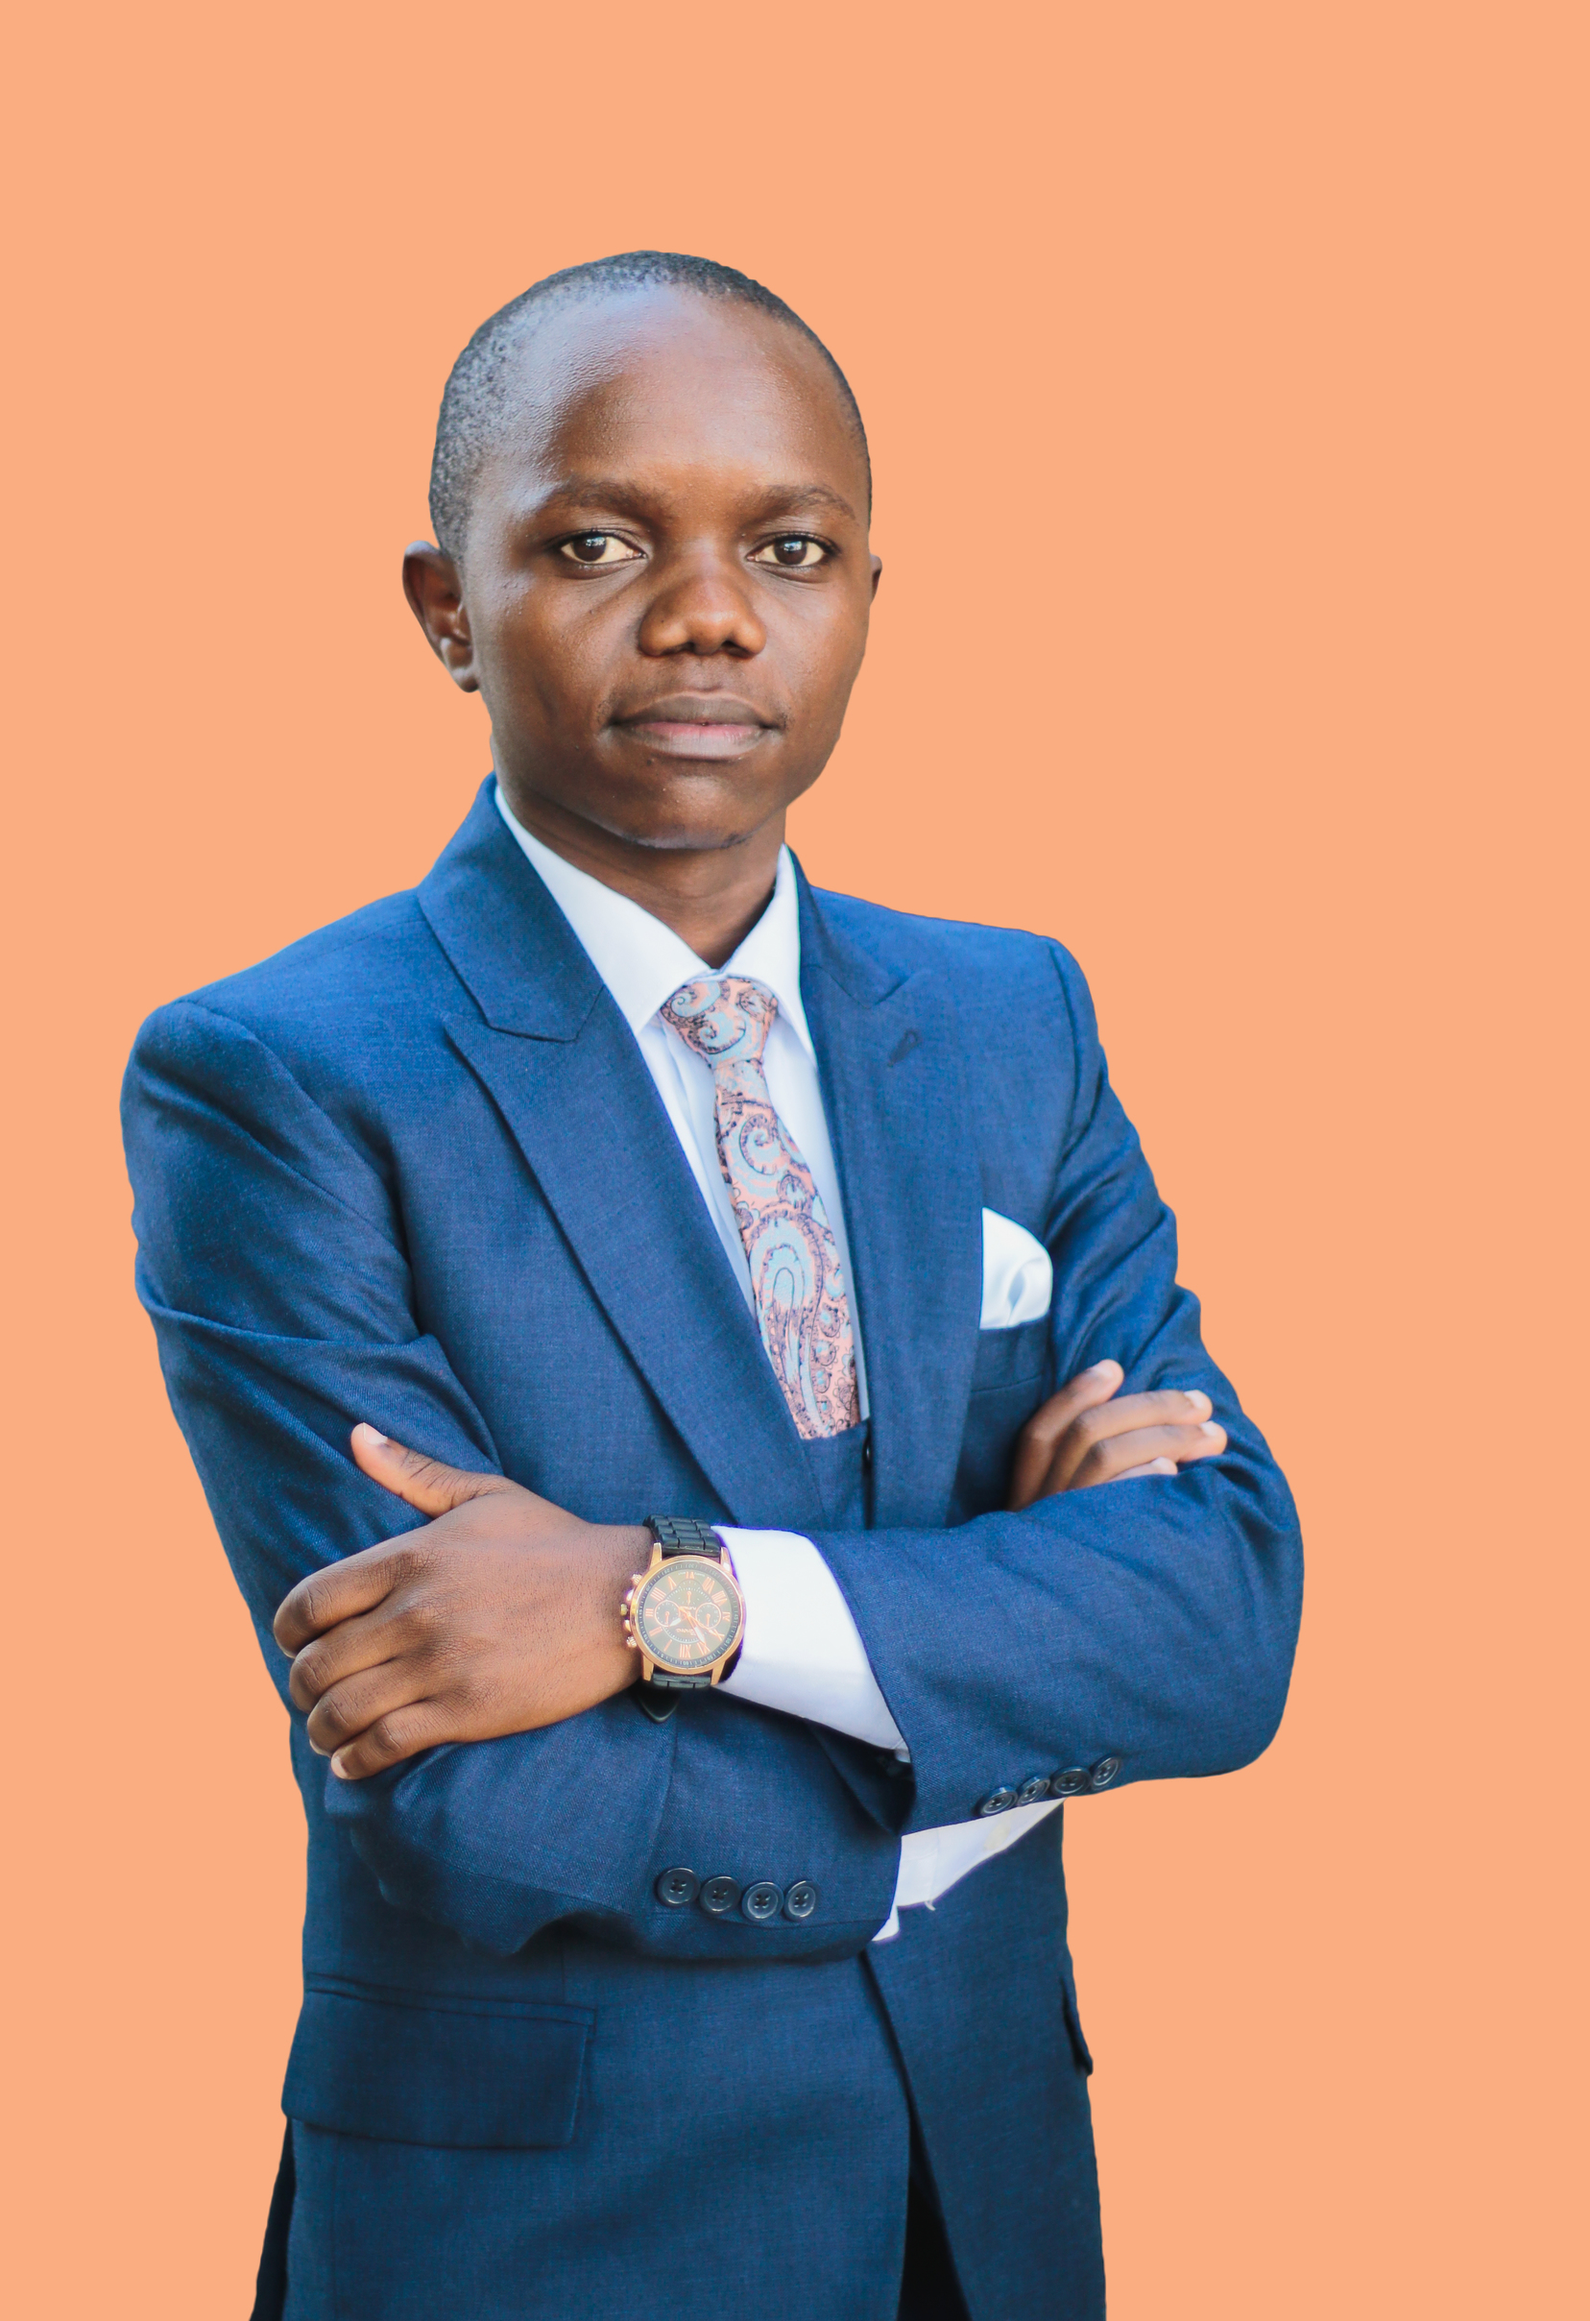
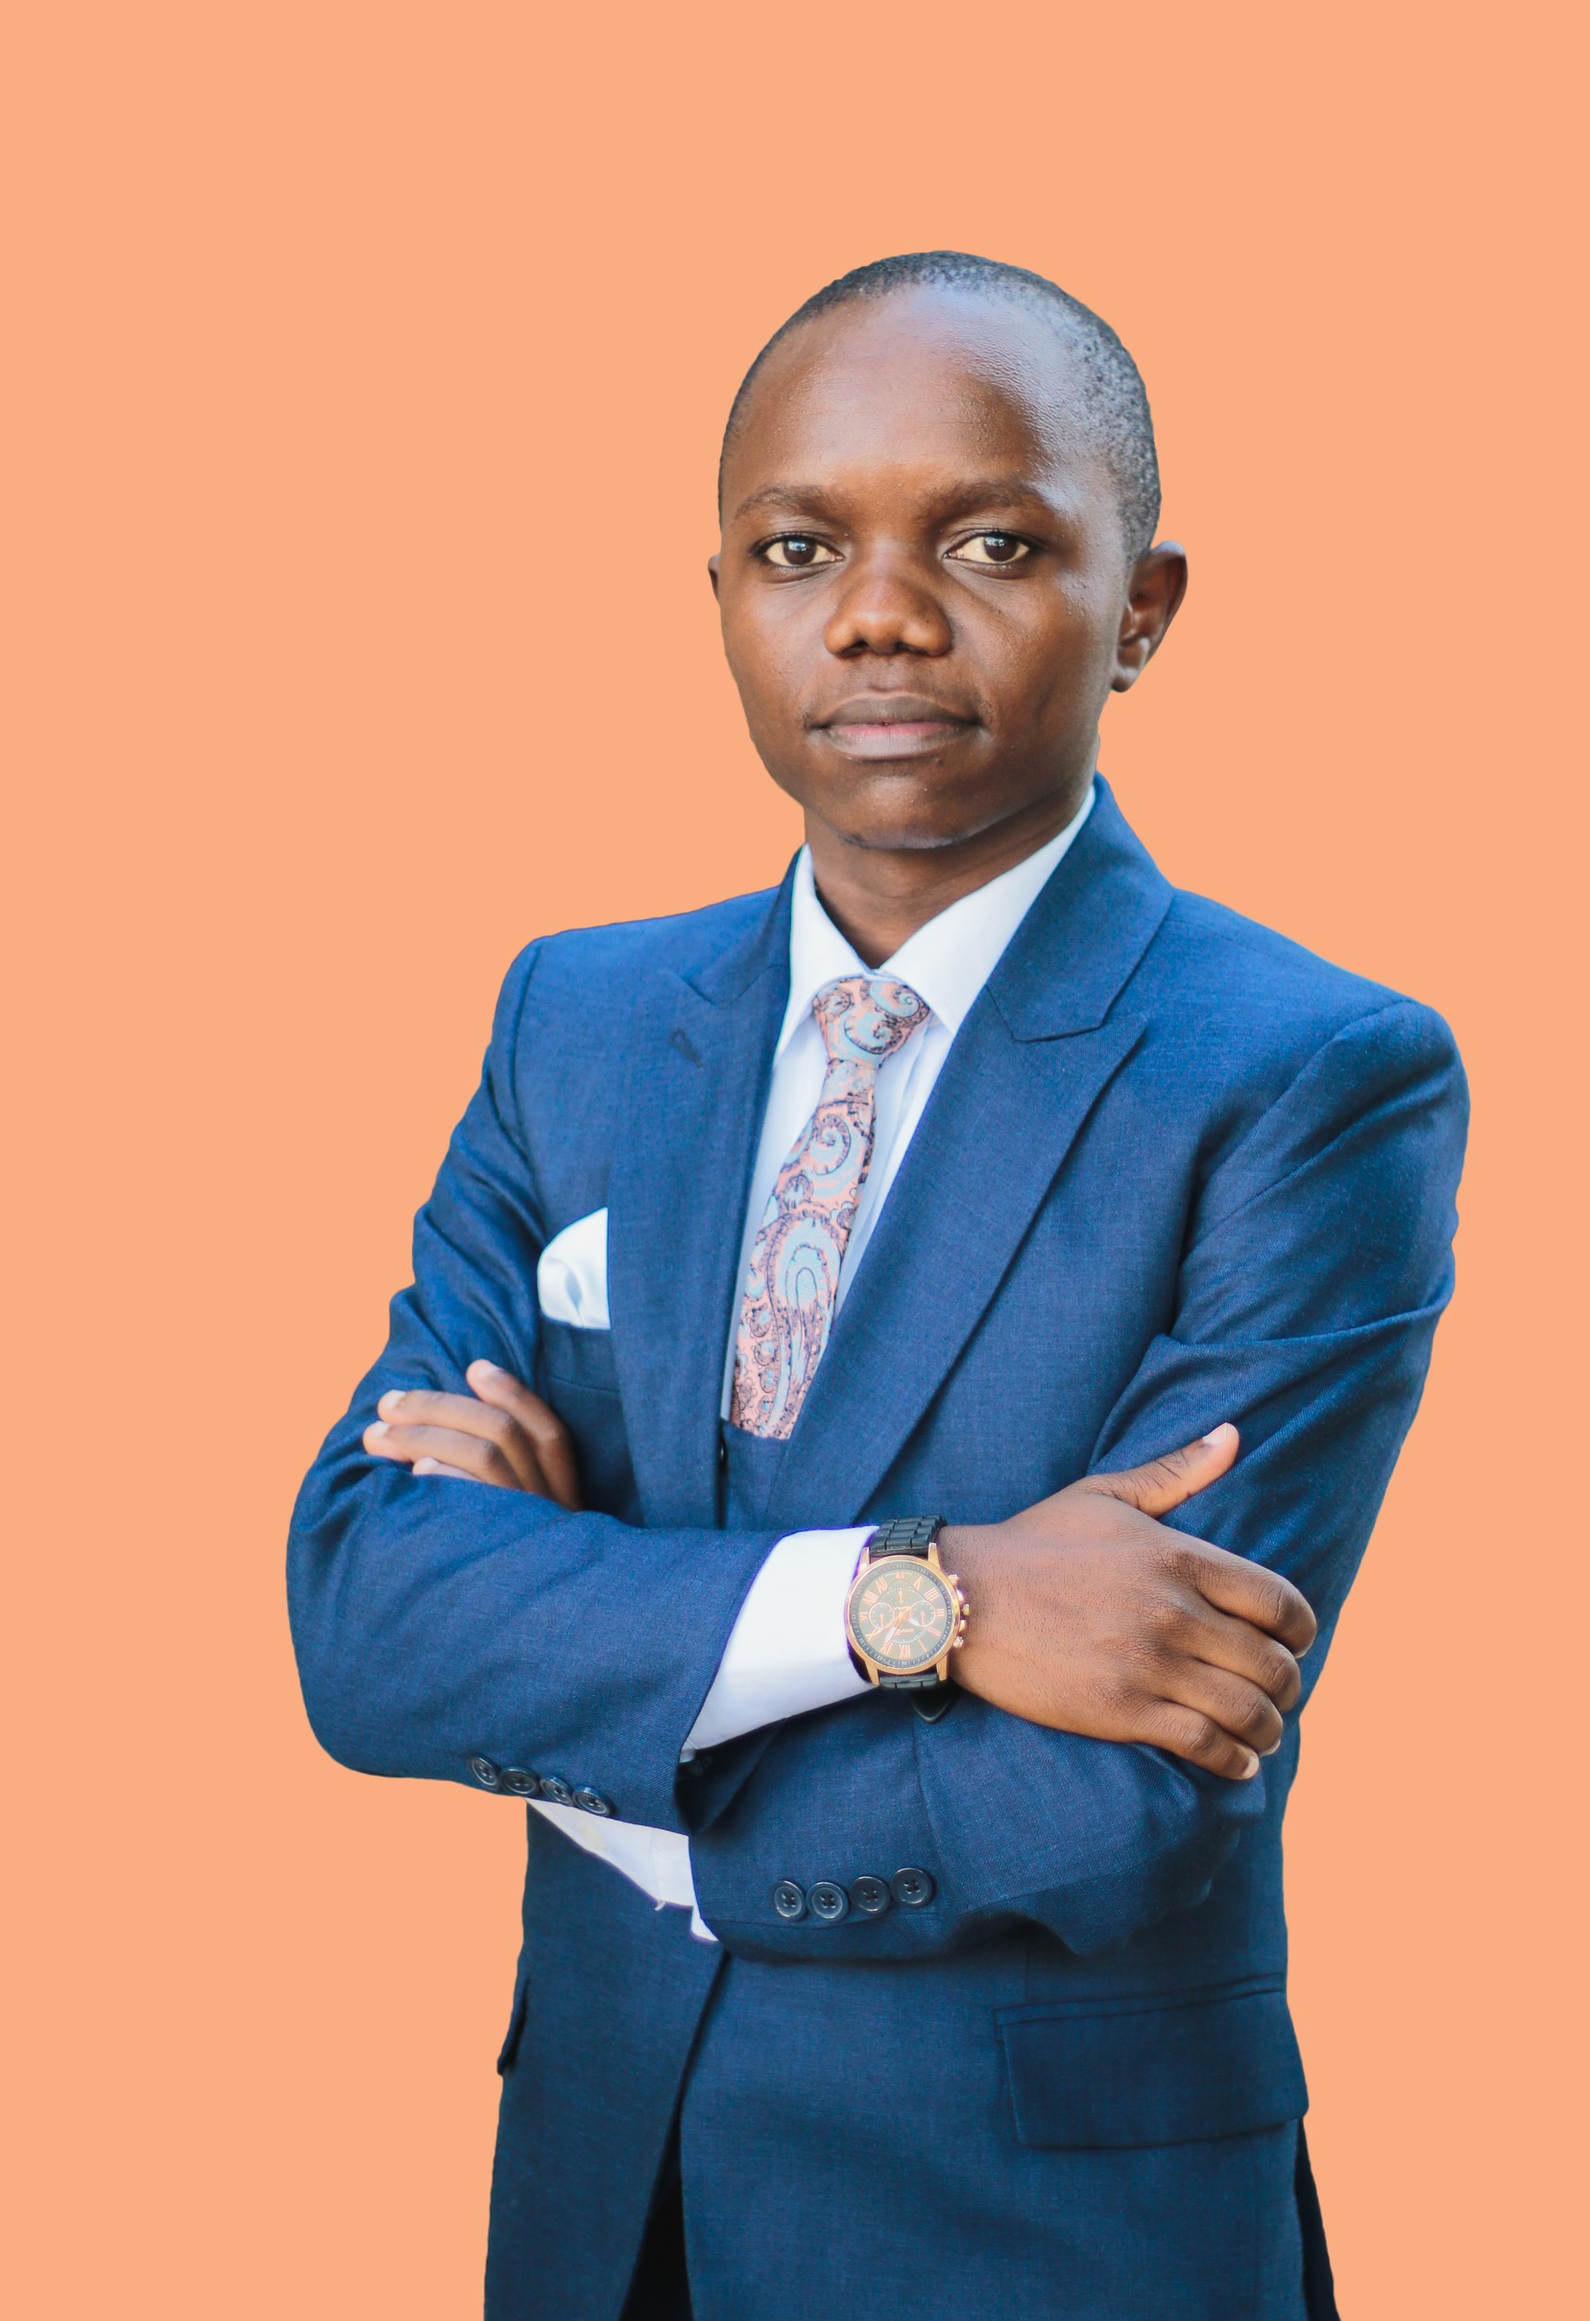
Add style to the image

diff --git a/index.html b/index.html
@@ -5,6 +5,7 @@
     <meta http-equiv="X-UA-Compatible" content="IE=edge">
     <meta name="viewport" content="width=device-width, initial-scale=1.0">
     <title>My Portfolio</title>
+    <link rel="stylesheet" href="style.css">
 </head>
 <body>
     <div class="image1">

diff --git a/style.css b/style.css
@@ -1,0 +1,7 @@
+.image1{
+    display: flex;
+    float: right;
+    margin-right: 300px;
+    height: 80vh;
+    width: 200px;
+}
